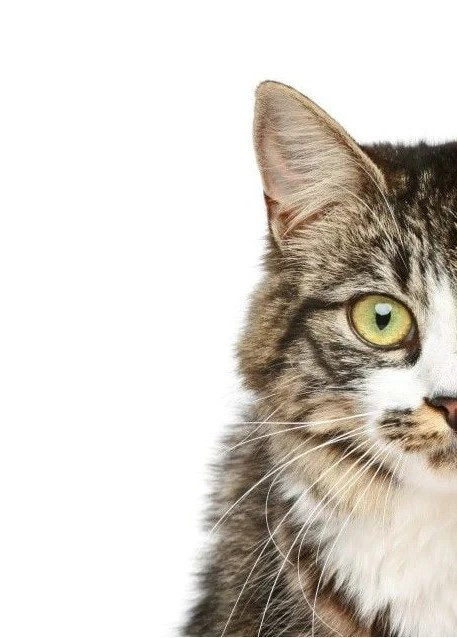
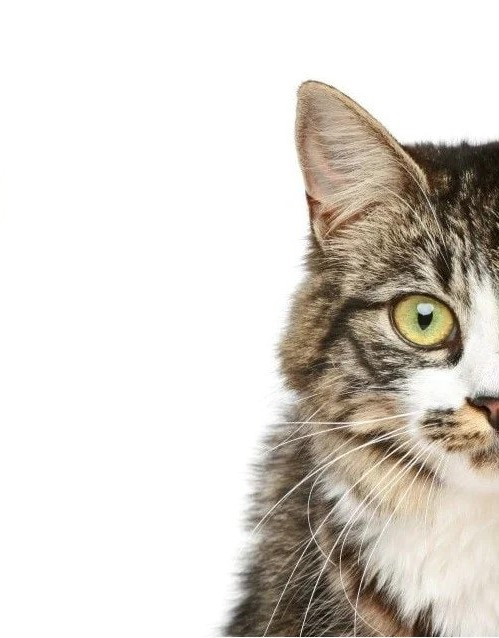
added picture on login, adjusted the color on form and made router-link change to bold on hover

Changed region(s): [[0.3676, 0.1191, 1.0, 1.0], [0.8578, 0.2085, 0.9497, 0.2382]]

diff --git a/public/index.html b/public/index.html
@@ -1,15 +1,22 @@
 <!DOCTYPE html>
 <html lang="">
   <head>
-    <meta charset="utf-8">
-    <meta http-equiv="X-UA-Compatible" content="IE=edge">
-    <meta name="viewport" content="width=device-width,initial-scale=1.0">
-    <link href='https://fonts.googleapis.com/css2?family=Roboto Condensed' rel='stylesheet'>
+    <meta charset="utf-8" />
+    <meta http-equiv="X-UA-Compatible" content="IE=edge" />
+    <meta name="viewport" content="width=device-width,initial-scale=1.0" />
+    <link
+      href="https://fonts.googleapis.com/css2?family=Roboto Condensed"
+      rel="stylesheet"
+    />
     <title>Završni</title>
   </head>
   <body>
     <noscript>
-      <strong>We're sorry but <%= htmlWebpackPlugin.options.title %> doesn't work properly without JavaScript enabled. Please enable it to continue.</strong>
+      <strong
+        >We're sorry but <%= htmlWebpackPlugin.options.title %> doesn't work
+        properly without JavaScript enabled. Please enable it to
+        continue.</strong
+      >
     </noscript>
     <div id="app"></div>
     <!-- built files will be auto injected -->
@@ -17,11 +24,29 @@
 </html>
 
 <style scoped>
+  /* Width */
+  ::-webkit-scrollbar {
+    width: 7px;
+  }
 
-body, html {
+  /* Track */
+  ::-webkit-scrollbar-track {
+    background: #f1f1f1;
+  }
 
-   margin: 0;
-   padding: 0;
-}
+  /* Handle */
+  ::-webkit-scrollbar-thumb {
+    background: #888;
+  }
 
+  /* Handle on hover */
+  ::-webkit-scrollbar-thumb:hover {
+    background: #555;
+  }
+
+  body,
+  html {
+    margin: 0;
+    padding: 0;
+  }
 </style>

diff --git a/src/pages/UserLogin.vue b/src/pages/UserLogin.vue
@@ -1,7 +1,9 @@
 <template>
     <div class="container-fluid ps-md-0">
         <div class="row g-0">
-            <div class="d-none d-md-flex col-md-4 col-lg-6 bg-image"></div>
+            <div class="d-none d-md-flex col-md-4 col-lg-6 bg-image">
+                <img src="/logincat.jpg" class="cat-image">
+            </div>
 
             <div class="col-md-8 col-lg-6">
                 <div class="login d-flex align-items-center py-5">
@@ -52,18 +54,36 @@ export default {
 </script>
 
 <style>
+.form-floating input:focus {
+    border-color: rgb(51, 51, 51);
+    box-shadow: 0 0 0 0.25rem rgba(248, 252, 255, 0.25) !important;
+}
+
 .login {
     min-height: 100vh;
 }
 
 .sign-up {
     color: gray;
+    margin-left: 5px;
+    display: inline-block;
+    width: 60px;
+}
+
+.sign-up:hover {
+    color: #555;
+    font-weight: bold;
 }
 
 .bg-image {
-    background-color: #C5ECE0;
+    /*background-color: #C5ECE0;*/
     background-size: cover;
     background-position: center;
+
+}
+
+.cat-image {
+    margin-left: auto;
 }
 
 .login-heading {

diff --git a/src/pages/SignUp.vue b/src/pages/SignUp.vue
@@ -34,7 +34,7 @@
                                     <div class="d-flex justify-content-center align-items-center">
                                         <p style="height: 7vh;">
                                             If you have an account please <router-link to="/login"
-                                                style="color: gray">Login</router-link>
+                                                class="login-link">Login</router-link>
                                         </p>
 
                                     </div>
@@ -85,6 +85,19 @@ export default {
     background-size: cover;
     background-position: center;
 }*/
+
+.login-link {
+    color: gray;
+    margin-left: 5px;
+    display: inline-block;
+    width: 50px;
+}
+
+.login-link:hover {
+    color: #555;
+    font-weight: bold;
+
+}
 
 .signup-heading {
     font-weight: 300;
